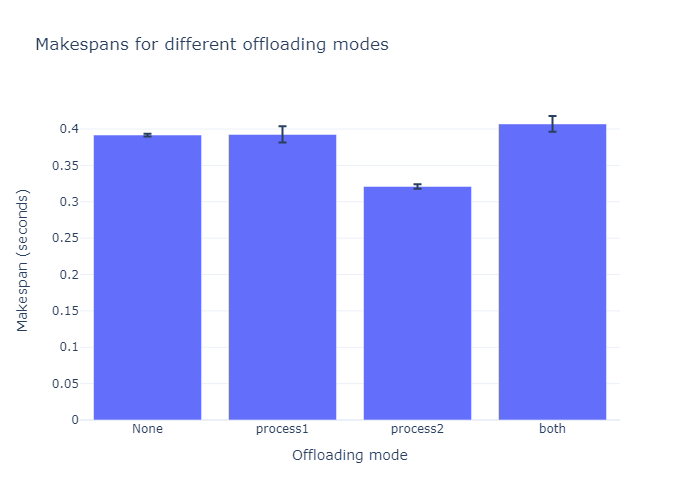
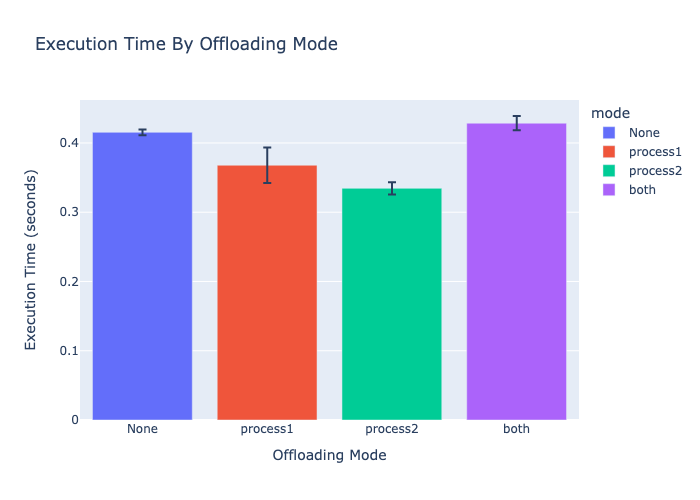
submission for lab10

diff --git a/main.py b/main.py
@@ -35,7 +35,7 @@ def final_process(data1: List[int], data2: List[int]) -> List[int]:
     """TODO: Document this function. What does it do? What are the inputs and outputs?"""
     return np.mean([x - y for x, y in zip(data1, data2)])
 
-offload_url = 'http://192.168.4.74:5000' # TODO: Change this to the IP address of your server
+offload_url = 'http://127.0.0.1:5000' # TODO: Change this to the IP address of your server
 
 def run(offload: Optional[str] = None) -> float:
     """Run the program, offloading the specified function(s) to the server.
@@ -47,7 +47,7 @@ def run(offload: Optional[str] = None) -> float:
         float: the final result of the program.
     """
     data = generate_data()
-    if offload is None: # in this case, we run the program locally
+    if offload == 'None': # in this case, we run the program locally
         data1 = process1(data)
         data2 = process2(data)
     elif offload == 'process1':
@@ -78,30 +78,26 @@ def run(offload: Optional[str] = None) -> float:
         thread.start()
         data1 = process1(data)
         thread.join()
-        pass
     elif offload == 'both':
         # TODO: Implement this case
         data1 = None
+        data2 = None
         def offload_process1(data):
             nonlocal data1
             # TODO: Send a POST request to the server with the input data
             response = requests.post(f'{offload_url}/process1', json=data)
             data1 = response.json()
-        thread = threading.Thread(target=offload_process1, args=(data,))
-        thread.start()
-        data2 = process2(data)
-        thread.join()
-        data2 = None
         def offload_process2(data):
             nonlocal data2
             # TODO: Send a POST request to the server with the input data
             response = requests.post(f'{offload_url}/process2', json=data)
             data2 = response.json()
-        thread = threading.Thread(target=offload_process2, args=(data,))
-        thread.start()
-        data1 = process1(data)
-        thread.join()
-        pass
+        thread1 = threading.Thread(target=offload_process1, args=(data,))
+        thread2 = threading.Thread(target=offload_process2, args=(data,))
+        thread1.start()
+        thread2.start()
+        thread1.join()
+        thread2.join()
 
     ans = final_process(data1, data2)
     return ans 
@@ -110,7 +106,7 @@ def main():
     # TODO: Run the program 5 times for each offloading mode, and record the total execution time
     #   Compute the mean and standard deviation of the execution times
     #   Hint: store the results in a pandas DataFrame, use previous labs as a reference
-    modes = [none, process1, process2, both]
+    modes = ['None', 'process1', 'process2', 'both']
     data = []
     for mode in modes:
         times = []
@@ -119,17 +115,18 @@ def main():
             run (mode)
             end = time.time()
             times.append (end-start)
+            print(f"Oflloading {mode} - sample{i+1}: {times[-1]:.2f}")
         mean = np.mean(times)
-        std = np,.std(times)
-        data.append(mode, mean, std)
+        std = np.std(times)
+        data.append([mode, mean, std])
 
     df = pd.DataFrame(data, columns=['mode', 'mean', 'std'])
-    print(df)
 
 
     # TODO: Plot makespans (total execution time) as a bar chart with error bars
     # Make sure to include a title and x and y labels
-    fig = px.bar(df, x='mode', y='mean', error_y='std', color='mode', title='Execution Time By Offloading Mode',xaxis_title='Offloading Mode', yaxis_title='Execution Time (seconds)')
+    fig = px.bar(df, x='mode', y='mean', error_y='std', color='mode', title='Execution Time By Offloading Mode')
+    fig.update_layout(xaxis_title='Offloading Mode', yaxis_title='Execution Time (seconds)')
                 
 
     # TODO: save plot to "makespan.png"

diff --git a/server.py b/server.py
@@ -22,3 +22,6 @@ def process2_app_route():
     data = request.get_json()
     res = jsonify(process2(data))
     return res
+
+if __name__ == '__main__':
+    app.run(port=5000, debug=True)

diff --git a/README.md b/README.md
@@ -2,13 +2,36 @@
 [Fork](https://docs.github.com/en/get-started/quickstart/fork-a-repo) this repo and clone it to your machine to get started!
 
 ## Team Members
-- team member 1
-- team member 2
+- Kevin Luo
 
 ## Lab Question Answers
 
-Question 1: ...
+Question 1: Under what circumstances do you think it will be worthwhile to offload one or both
+of the processing tasks to your PC? And conversely, under what circumstances will it not be
+worthwhile?
 
-Answer: ...
+Answer: It'll be worthwhile to offload a processing task to my PC if it's quicker to execute the process that way (i.e. if the computing power of my PC is significantly higher), conversely, if it's slower to execute the process on your PC, then it wouldn't be worthwhile.
 
-Question 2: ...
+Question 2: Why do we need to join the thread here?
+
+Answer: We join the thread to ensure that a value is assigned to data1 before we proceed to use the variable later in the code
+
+Question 3: Are the processing functions executing in parallel or just concurrently? What is the difference?
+         See this article: https://oxylabs.io/blog/concurrency-vs-parallelism
+
+Answer: The two processing functions are only executing concurently but not parallely, meaning that although the two processes are being executed at the same time, but not simultaneously (utilizing multiple CPU cores to run the threads)
+Source: ChatGPT
+
+Question 4: What is the best offloading mode? Why do you think that is?
+
+Answer: Based on the graph we've obtained, process2 alone is a best offloading mode since it has the lowest execution time.
+
+Question 5: What is the worst offloading mode? Why do you think that is?
+
+Answer: The worst offloading mode is both due to its longest execution time.
+
+Question 6: The processing functions in the example aren't very likely to be used in a real-world application. 
+What kind of processing functions would be more likely to be used in a real-world application?
+When would you want to offload these functions to a server?
+
+Answer: Image processing is a popular processing function that often requires a significant amount of processing power, making the application of offloading useful since we could offload the process to a server that has the processing power that's capable of handling a more complicated task.
